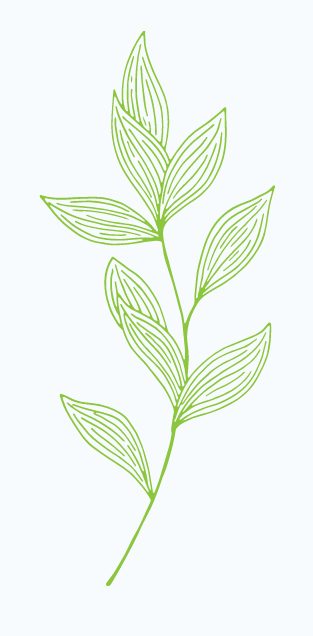
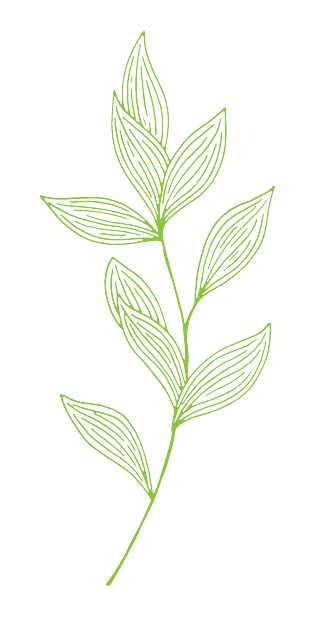
Building products template

diff --git a/templates/base.html b/templates/base.html
@@ -2,39 +2,56 @@
 
 <!DOCTYPE html>
 <html lang="en">
+
 <head>
-{% block meta %}
-<meta charset="UTF-8">
-<meta name="viewport" content="width=device-width, initial-scale=1.0">
-<meta http-equiv="X-UA-Compatible" content="ie=edge">
-<meta name="Description" content="This site offers a webshop providing environmentally friendly childrens's toys made from wood or rubber and free from all harmful substances. 
+    {% block meta %}
+    <meta charset="UTF-8">
+    <meta name="viewport" content="width=device-width, initial-scale=1.0">
+    <meta http-equiv="X-UA-Compatible" content="ie=edge">
+    <meta name="Description" content="This site offers a webshop providing environmentally friendly childrens's toys made from wood or rubber and free from all harmful substances. 
 The site also contains a blog about common materials that children's toys are made fromn and how they impact the environment, guiding parents and others to more healthy choices when buying 
-toys for their children"/>
-{% endblock %}
+toys for their children" />
+    {% endblock %}
 
-{% block corecss %}
-<link rel="stylesheet" href="https://cdn.jsdelivr.net/npm/bootstrap@4.6.0/dist/css/bootstrap.min.css" integrity="sha384-B0vP5xmATw1+K9KRQjQERJvTumQW0nPEzvF6L/Z6nronJ3oUOFUFpCjEUQouq2+l" crossorigin="anonymous">
-<link rel="stylesheet" href="{% static 'css/base.css' %}">
-{% endblock %}
+    {% block corecss %}
+    <link rel="stylesheet" href="https://cdn.jsdelivr.net/npm/bootstrap@4.6.0/dist/css/bootstrap.min.css"
+        integrity="sha384-B0vP5xmATw1+K9KRQjQERJvTumQW0nPEzvF6L/Z6nronJ3oUOFUFpCjEUQouq2+l" crossorigin="anonymous">
+    <link rel="stylesheet" href="{% static 'css/base.css' %}">
+    {% endblock %}
 
-{% block corejs %}
-<script src="https://code.jquery.com/jquery-3.6.0.min.js" integrity="sha256-/xUj+3OJU5yExlq6GSYGSHk7tPXikynS7ogEvDej/m4=" crossorigin="anonymous"></script>
-<script src="https://cdn.jsdelivr.net/npm/bootstrap@4.6.0/dist/js/bootstrap.bundle.min.js" integrity="sha384-Piv4xVNRyMGpqkS2by6br4gNJ7DXjqk09RmUpJ8jgGtD7zP9yug3goQfGII0yAns" crossorigin="anonymous"></script>
-<script src="https://kit.fontawesome.com/07bb8fa899.js" crossorigin="anonymous"></script>
-{% endblock %}
-<title>Green Toys</title>
+    {% block corejs %}
+    <script src="https://code.jquery.com/jquery-3.6.0.min.js"
+        integrity="sha256-/xUj+3OJU5yExlq6GSYGSHk7tPXikynS7ogEvDej/m4=" crossorigin="anonymous"></script>
+    <script src="https://cdn.jsdelivr.net/npm/bootstrap@4.6.0/dist/js/bootstrap.bundle.min.js"
+        integrity="sha384-Piv4xVNRyMGpqkS2by6br4gNJ7DXjqk09RmUpJ8jgGtD7zP9yug3goQfGII0yAns"
+        crossorigin="anonymous"></script>
+    <script src="https://kit.fontawesome.com/07bb8fa899.js" crossorigin="anonymous"></script>
+    {% endblock %}
+    <title>Green Toys</title>
 </head>
+
 <body>
 
-<header class="container-fluid fixed-top px-0">
-   
-            {% include 'includes/nav.html' %}
+    <div class="container-fluid fixed-top px-0 mb-5">
+
+        {% include 'includes/nav.html' %}
 
 
-</header>
-{%block content %}
-{% endblock %}
+    </div>
+
+    {% block page_header %}
+    <div class="container-fluid header-banner py-3 fixed-top">
+        <h2 class="text-uppercase">Free shipping on orders over <span><i class="fas fa-euro-sign"></i></span>{{
+            free_delivery_threshold }}</h2>
+
+    </div>
+    {% endblock %}
+
+
+    {%block content %}
+    {% endblock %}
 
 
 </body>
+
 </html>

diff --git a/toys/templates/toys/toys.html b/toys/templates/toys/toys.html
@@ -2,15 +2,31 @@
 {% load static %}
 
 
+
 {% block content %} 
-<h2>Our Toys</h2>
-<div class="container-fluid">
-    <div class="row">
+<div class="container-fluid all-toys-wrapper">
+<h3>Our Toys</h3>
+{% if request.user.is_superuser %}
+<a class="add-toy-link" href=""><span><i class="fas fa-plus"></i> Add Toy</span></a>
+{% endif %}
+<div class="container-fluid mt-5">
+    <div class="row mt-3">
         {% for toy in toys %}
-        <div class="col-12 col-sm-6 col- lg-4">
-<div class="toy-container">{{toy.name }}</div>
+        <div class="col-12 col-sm-6 col-lg-4">
+            <div class="card" style="width: 18rem;">
+           
+                <img src="/media/no-image.png" alt="Light-brown image of drawn silhouette of mountain and tree with text 'no image found' below">
+              
+                <div class="card-body">
+                  <h5 class="card-title">{{ toy.name }}</h5>
+                  <p class="card-text">Rating {{ toy.rating }}</p>
+                  <p class="card-text">€ {{toy.price }}</p>
+                  <a href="" class="btn rounded-pill">Read more</a>
+                </div>
+              </div>
 {% endfor %}
         </div>
     </div>
+</div>
 </div>
 {% endblock %}

diff --git a/static/css/base.css b/static/css/base.css
@@ -2,7 +2,7 @@
 
 body {
     font-family: 'Quicksand', sans-serif;
-    background-color: #f7faff;
+    text-align: center;
 }
 h1 {
     color: #81E157;
@@ -19,14 +19,19 @@ h2 {
     font-size: 1.4rem;
 }
 
+h3 {
+    color: #6D564D;
+    font-family: 'Quicksand', sans-serif;
+}
 
 /*-------------------------Navigation bar */
+
 
 .nav-link {
     color: #6D564D !important;
     font-weight: 600;
     letter-spacing: .008rem;
-    font-size: 0.9rem;
+    font-size: 1rem;
 }
 
 .nav-link:active {
@@ -53,7 +58,17 @@ h2 {
     margin-left: 1rem;
 }
 
+.header-banner {
+    background-color: #fff;
+    margin-top: 3.5rem;
+}
+
+.header-banner span {
+    color: #CAEF84;
+}
+
 /*------------------------ Hero section */
+
 
 .index-hero {
     background: url('/media/hero-img.jpg') no-repeat center center fixed;
@@ -98,6 +113,21 @@ filter: drop-shadow(0.1rem 0.1rem 0.2rem #a19e9e);
 
 .index-drawing {
     width: 100%;
+}
+
+/*-------------------- All toys page */
+
+.add-toy-link {
+ position: absolute;
+ right: 2rem;
+}
+
+.add-toys-link a, span {
+    color: #6D564D;
+}
+
+.all-toys-wrapper {
+    margin-top: 10rem;
 }
 
 /*------------------ Media queries */

diff --git a/home/templates/home/index.html b/home/templates/home/index.html
@@ -2,16 +2,12 @@
 {% load static %}
 
 
-{% block page_header %}
-
-{%endblock%}
-
 {% block content %}
 <div class="index-hero container-fluid">
     <div class="row justify-content-end align-content-center h-100">
     <div class="col-12 col-lg-6"><h1 class="my-2 ms-2">Green Toys</h1>
         <h2 class="mt-3 ms-2">GIVE YOUR KID AND EARTH THE BEST</h2>
-    <button class="hero-btn btn rounded-pill mt-5 ms-2">SHOP NOW <span class="icon"><i class="fas fa-arrow-right ps-3"></i></span></button></div>
+    <a class="hero-btn btn rounded-pill mt-5 ms-2" href="{% url 'toys' %}">  SHOP NOW <span class="icon"><i class="fas fa-arrow-right ps-3"></i></span></a></div>
 
 </div>
 
@@ -52,7 +48,7 @@
 </div>
 
 <div class="container-fluid index-side-container my-3">
-    <a href=""><h4 class="index-link my-3"></h4>See All Toys</a>
+    <a href="{% url 'toys' %}"><h4 class="index-link my-3"></h4>See All Toys</a>
     <img class="index-drawing my-5 invisible" src="/media/twig.png" alt="Drawing of green twig with delicate leaves">
    <a href=""> <h4 class="index-link my-3"></h4>See All Blog Posts</a>
 </div>

diff --git a/templates/includes/nav.html b/templates/includes/nav.html
@@ -8,10 +8,10 @@
     <div class="collapse navbar-collapse" id="navbarSupportedContent">
       <ul class="navbar-nav me-auto mb-2 mb-lg-0">
         <li class="nav-item">
-          <a class="nav-link active" aria-current="page" href="#">Home</a>
+          <a class="nav-link active" aria-current="page" href="{% url 'home' %}">Home</a>
         </li>
         <li class="nav-item">
-          <a class="nav-link" href="#">All Toys</a>
+          <a class="nav-link" href="{% url 'toys' %}">All Toys</a>
         </li>
         <li class="nav-item">
           <a class="nav-link" href="#">Campaign</a>
